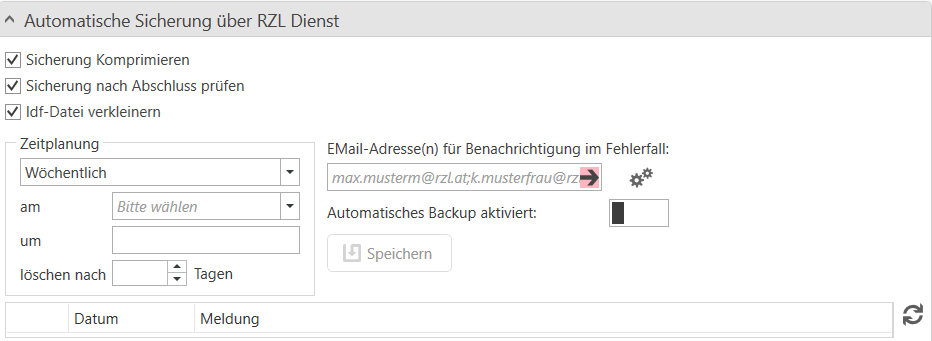
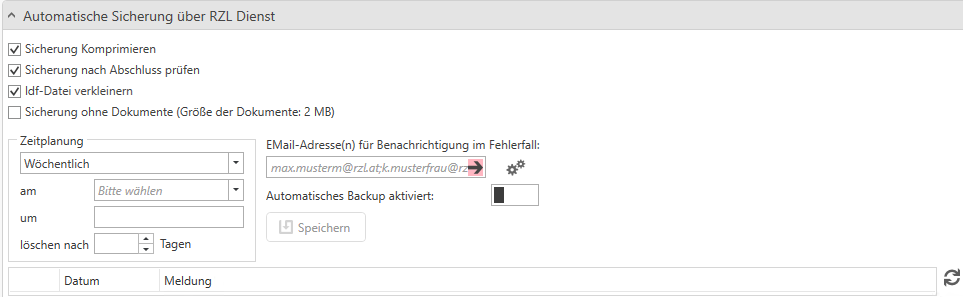
Text Bild änderungen Kapitel Sicherung

Changed region(s): [[0.0, 0.0, 1.0, 1.0], [0.6534, 0.5758, 0.7157, 0.6667]]

diff --git a/docs/rzladmin/sicherung.md b/docs/rzladmin/sicherung.md
@@ -1,25 +1,63 @@
 # Sicherung
 
+## Manuelle Sicherung der RZL-Datenbank
 In dieser Rubrik können Sie eine RZL-Datenbanksicherung erstellen und bei
-Bedarf direkt an den RZL-Support übermitteln.
+Bedarf direkt an den RZL-Support senden.
 
-Es besteht die Möglichkeit, Name und Beschreibung der Sicherung
-individuell anzupassen. Eine Zeile darunter wird die
-**geschätzte Größe des Backups** angezeigt.
+Sie haben die Möglichkeit, den Namen und die Beschreibung der Sicherung individuell anzupassen.
 
-Mit dem Button *Datensicherung erstellen* wird automatisch eine Sicherung
-erzeugt und im definierten Sicherungsordner gespeichert.  
+ Darunter wird Ihnen außerdem angezeigt, wie groß das Backup **voraussichtlich** sein wird.
+
+Mit einem Klick auf den Button **Datensicherung erstellen** wird automatisch eine Sicherung erstellt und im definierten Sicherungsordner abgelegt.  
 *(Standardmäßig ist dies der Ordner `SQL_Backup` im Datenrepository.)*
 
 ![Datensicherung erstellen](img/Sicherung_Erstellen.png)
 
-Unter dem Punkt *Erweiterte Einstellungen* können Sie zusätzliche Optionen
-für die Sicherung konfigurieren:
-
+Unter dem Punkt **Erweiterte Einstellungen** können Sie zudem folgende Optionen festlegen:
 ![Datensicherung erstellen - erweiterte Einstellungen](img/Sicherung_ErweiterteEinstellungen.png)
 
-<!--
-Zusätzlich kann eine *automatische Datenbanksicherung* aktiviert werden.
-Diese erfolgt ausschließlich über den **RZL-Dienst**:
+  * **Für jede Sicherung automatisch eine neue Datei erstellen**  
+ Erstellt für jede Sicherung eine separate Datei, anstatt bestehende Backups zu überschreiben.
+  * **Die Sicherung in folgende Datei schreiben**  
+ Ermöglicht das manuelle Festlegen eines spezifischen Dateipfads und -namens für die Sicherung.
+ * **Sicherung komprimieren**  
+ Reduziert die Dateigröße des Backups durch Komprimierung.
+ * **Sicherung nach Abschluss prüfen**  
+  Führt eine automatische Überprüfung der Sicherung durch, um die Integrität der Daten sicherzustellen. 
+ * **LDF-Datei verkleinern**  
+ Verkleinert die Protokolldatei (LDF) einer Microsoft SQL Server-Datenbank, um Speicherplatz zu sparen. 
+ * **Sicherung ohne Dokumente**  
+ Eine Sicherung der Datenbank ohne Dokumente ist grundsätzlich möglich, wird aber nicht empfohlen. Wenn eine Sicherung an den RZL-Support gesendet werden soll, kann durch das Aktiveren der Option „Sicherung ohne Dokumente“ die Backupgröße minimiert werden.
+
+## Automatische Sicherung der RZL-Datenbank über RZL-Dienst
+Unter dem Punkt **Automatische Sicherung über RZL Dienst** können Sicherungen automatisiert erstellt werden.
+
+Bitte beachten Sie, dass eine automatische Sicherung nur dann genutzt werden kann, wenn der RZL-Dienst installiert ist.
+
+Der RZL-Dienst sollte ausschließlich für die im Setup-Handbuch in der RZL Online Hilfe [RZL Dienst installieren](https://hilfe.rzlsoftware.at/setup/dienst-installieren/) genannten Module eingerichtet werden.
+
+In diesem Bereich stehen Ihnen folgende Optionen zur Verfügung:
 ![Automatische Sicherung über RZL Dienst](img/Sicherung_AutomatischUeberRZLDienst.png)
--->
+
+  * **Sicherung komprimieren**  
+ Reduziert die Dateigröße des Backups durch Komprimierung.
+  * **Sicherung nach Abschluss prüfen**  
+ Führt eine automatische Überprüfung der Sicherung durch, um die Integrität der Daten sicherzustellen.
+  * **LDF-Datei verkleinern**  
+ Verkleinert die Protokolldatei (LDF) einer Microsoft SQL Server-Datenbank, um Speicherplatz zu sparen.
+  * **Sicherung ohne Dokumente**  
+ Eine Sicherung der Datenbank ohne Dokumente ist grundsätzlich möglich, wird aber nicht empfohlen.Wenn eine Sicherung an den RZL-Support gesendet werden soll, kann durch das Aktiveren der Option „Sicherung ohne Dokumente“ die Backupgröße minimiert werden.
+
+Zusätzlich können Sie:
+
+  * **Einen Zeitplan für die automatische Sicherung festlegen**  
+ Bestimmen Sie Wochentag und Uhrzeit, an denen die Sicherung automatisch durchgeführt werden soll.
+  * **Die Behaltedauer der Sicherungen konfigurieren**  
+ Legen Sie fest, wie lange alte Sicherungen aufbewahrt werden sollen.
+* **Eine Mail-Benachrichtigung bei fehlgeschlagener Sicherung aktivieren**  
+  Tragen Sie hierzu die gewünschten Empfängeradressen ein.
+  Mit einem Klick auf das Zahnrad-Symbol können Sie Ihre SMTP-Einstellungen für den Mailversand konfigurieren.
+
+    ![SMTP Einstellungen](img/Sicherung_SMTPEinstellungen.png)
+
+Vergessen Sie nicht, die Einstellungen mit **Speichern** zu sichern und das automatische Backup mit dem Schieber neben **Automatisches Backup aktiviert** zu aktivieren.
